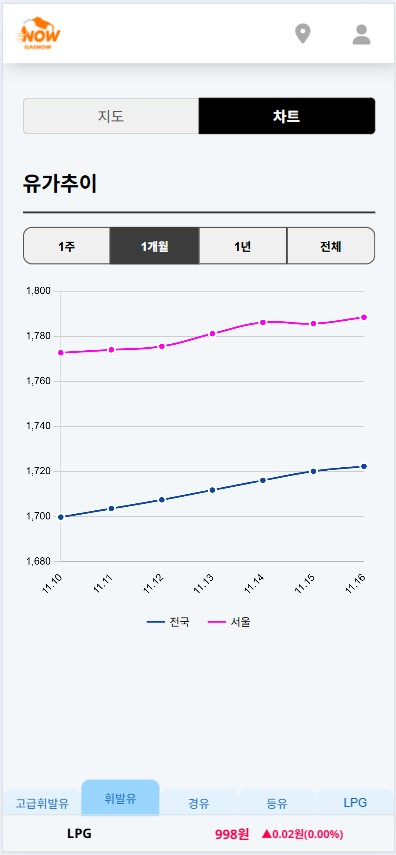
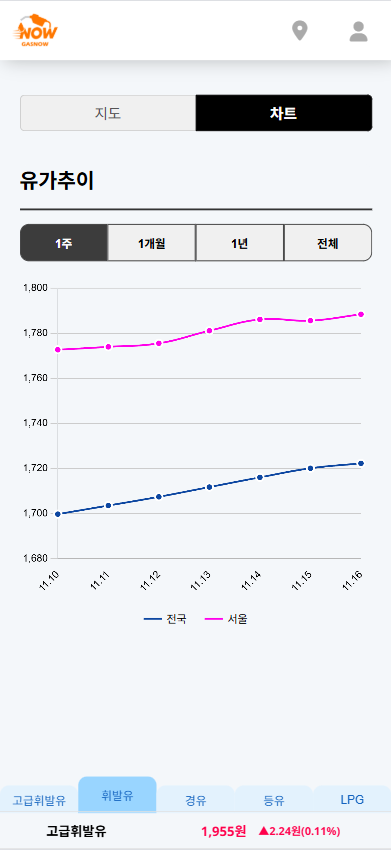
save

diff --git a/src/main/resources/static/css/index.css b/src/main/resources/static/css/index.css
@@ -49,7 +49,9 @@ body {
     overflow: hidden;
 }
 .chart-container {
-    width: 30%;
+    width: 40%;
+    padding-left: 5%;
+    padding-right: 5%;
     height: 100%;
     margin-right: 7%;
     background: #f4f7fa;
@@ -72,25 +74,27 @@ body {
     gap: 10px;
     flex-direction: row-reverse;
 }
-.login-btn {
-    border: 2px solid black;
-    border-radius: 30px;
-    background-color: #f0f0f0;
-    color: black;
-    font-weight: bold;
-    padding: 5px 30px;
-    max-height: 100%;
-    cursor: pointer;
-}
+.login-btn,
 .register-btn {
-    border-radius: 30px;
-    border: 1px solid black;
-    background-color: black;
-    color: white;
+    width: 100px;
+    height: 40px;
+    border-radius: 10px;
+    color: black;
+    font-size: 0.9rem;
     font-weight: bold;
-    padding: 5px 20px;
-    max-height: 100%;
     cursor: pointer;
+    border: 1px solid #ccc;
+    background-color: #f0f0f0;
+    box-shadow:
+            inset 5px 5px 10px #ffffff, /* 1. 밝은 그림자 (좌측 상단) */
+            0 5px 10px #bebebe;         /* 2. 어두운 그림자 (우측 하단) */
+}
+.login-btn:active,
+.register-btn:active {
+    color: #555;
+    box-shadow:
+            inset 0 -5px 10px #ffffff,      /* 안쪽 밝은 그림자 */
+            inset 5px 5px 10px #afafaf;     /* 안쪽 어두운 그림자 */
 }
 
 .welcome-btn {
@@ -182,22 +186,30 @@ body {
     display: flex;
     flex-direction: column; /* 아이템을 세로로 정렬 */
     justify-content: center; /* 그룹을 박스 세로 중앙에 배치 */
-
-    /* ↓↓↓ 추가: 항목 사이의 간격을 vh로 지정 (기존 margin 대신) */
     gap: 0.8vh;
-
-    /* ↓↓↓ 추가: 패딩을 주면 더 안정적입니다 (선택 사항) */
     padding: 1vh 0;
     box-sizing: border-box; /* 패딩이 높이에 포함되도록 함 */
     border-radius: 10px;
-    background-color: #ffddaa;
     cursor: pointer;
+    border: 1px solid #ccc;
+    background-color: #ffddaa;
+    color: #555;
+    box-shadow:
+            inset 4px 5px 10px rgba(255, 255, 255, 0.7),   /* 1. 밝은 그림자 (좌측 상단) */
+            4px 5px 10px #bebebe;         /* 2. 어두운 그림자 (우측 하단) */
 }
-.diff-box:hover {
-    background-color: #ffaa64;
-}
+.diff-box:active,
 .diff-box.on {
     background-color: #ffaa64;
+    border: 1px solid #ccc;
+    font-weight: bold;
+    box-shadow:
+            inset -3px -4px 10px #fae6c8,      /* 안쪽 밝은 그림자 */
+            inset 3px 4px 10px #9a663c;        /* 안쪽 어두운 그림자 */
+}
+.diff-box:active .diff-oil,
+.diff-box.on .diff-oil {
+    color: #555;
 }
 .diff-oil {
     color: black;
@@ -255,14 +267,15 @@ h1 {
     flex: 1;
     padding: 10px;
     text-align: center;
-    background: white;
-    border: none;
     cursor: pointer;
     font-size: 0.8rem;
     font-weight: bold;
-    color: black;
+    border: 1px solid #ccc;
     background-color: #f0f0f0;
-    border: 1px solid #3c3c3c;
+    color: #000000;
+    box-shadow:
+            inset 5px 5px 10px #ffffff, /* 1. 밝은 그림자 (좌측 상단) */
+            0 5px 10px #bebebe;         /* 2. 어두운 그림자 (우측 하단) */
 }
 
 .period-btn:first-child {
@@ -272,11 +285,23 @@ h1 {
 .period-btn:last-child {
     border-radius: 0 10px 10px 0;
 }
-
-.period-btn.on {
-    background: #3c3c3c;
-    color: white;
+.period-btn:active {
+    background-color: #f0f0f0;
+    color: #555;
+    border: 1px solid #ccc;
     font-weight: bold;
+    box-shadow:
+            inset 0 -5px 10px #ffffff,      /* 안쪽 밝은 그림자 */
+            inset 5px 5px 10px #afafaf;     /* 안쪽 어두운 그림자 */
+}
+.period-btn.on {
+    background-color: #f0f0f0;
+    color: #555;
+    border: 1px solid #ccc;
+    font-weight: bold;
+    box-shadow:
+            inset 0 -5px 10px #ffffff, /* 안쪽 밝은 그림자 */
+            inset 5px 5px 10px #afafaf;  /* 안쪽 어두운 그림자 */
 }
 
 .legend {
@@ -303,7 +328,7 @@ h1 {
 }
 
 .local {
-    background-color: #ff00ea;
+    background-color: #ff0055;
 }
 
 
@@ -398,15 +423,31 @@ h1 {
         background-color: #f0f0f0;
         color: #555;
         font-size: 1rem;
+        font-weight: bold;
         text-align: center;
         align-content: center;
         cursor: pointer;
+        box-shadow:
+                inset 5px 5px 10px #ffffff, /* 1. 밝은 그림자 (좌측 상단) */
+                0 5px 10px #bebebe;         /* 2. 어두운 그림자 (우측 하단) */
+    }
+    .toggle-btn:active {
+        background-color: #f0f0f0;
+        color: #555;
+        border: 1px solid #ccc;
+        font-weight: normal;
+        box-shadow:
+                inset 0 -5px 10px #ffffff,      /* 안쪽 밝은 그림자 */
+                inset 5px 5px 10px #afafaf;     /* 안쪽 어두운 그림자 */
     }
     .toggle-btn.on {
-        background-color: black;
-        color: white;
-        border-color: black;
-        font-weight: bold;
+        background-color: #f0f0f0;
+        color: #555;
+        border: 1px solid #ccc;
+        font-weight: normal;
+        box-shadow:
+                inset 0 -5px 10px #ffffff,      /* 안쪽 밝은 그림자 */
+                inset 5px 5px 10px #afafaf;     /* 안쪽 어두운 그림자 */
     }
     .toggle-btn:first-child {
         border-radius: 5px 0 0 5px;
@@ -441,7 +482,7 @@ h1 {
         margin-left: 0;
     }
     .label {
-        font-size: 1.9rem;
+        font-size: 1.5rem;
         font-weight: bold;
     }
 
@@ -449,9 +490,9 @@ h1 {
     차트 스타일
     ================================================================================================*/
     .chart-container {
-        width: 90%;
-        margin-left: auto;
-        margin-right: auto;
+        width: 90vw;
+        padding-left: 5%;
+        padding-right: 5%;
         display: none;
     }
     .chart-container.on {
@@ -506,6 +547,8 @@ h1 {
         align-items: center;             /* 수직 가운데 */
         justify-content: center;         /* 수평 가운데 */
         font-size: 0.8rem;
+        box-shadow: 0 -3px 5px rgba(0, 0, 0, 0.2);
+        background: linear-gradient(to bottom, #f8f8f8, #eaeaea);
     }
     .oil-btn:hover {
         background-color: #99d5ff;
@@ -525,6 +568,12 @@ h1 {
         align-items: center;
         overflow: hidden;
         gap: 0;
+        background: linear-gradient(
+                to bottom,
+                #f8f8f8 0%,
+                #f8f8f8 5%,
+                #eaeaea 50%
+        );
         border-top: 1px solid #e0e0e0;      /* 상단 구분선 */
         border-bottom: 1px solid #e0e0e0;   /* 하단 구분선 */
         width: 100%;                        /* 화면 전체 너비 */

diff --git a/src/main/resources/static/js/index.js b/src/main/resources/static/js/index.js
@@ -664,13 +664,13 @@ function renderChart(data, areaCode, periodKey) {
                     {
                         label: koreanArea,
                         data: chartData[koreanArea] || [],
-                        borderColor: '#ff00ea',
-                        backgroundColor: '#ff00ea',
+                        borderColor: '#ff0055',
+                        backgroundColor: '#ff0055',
                         tension: 0.4,
                         borderWidth: 2,
                         pointRadius: 4,
                         pointHoverRadius: 6,
-                        pointBackgroundColor: '#ff00ea',
+                        pointBackgroundColor: '#ff0055',
                         pointBorderColor: '#fff',
                         pointBorderWidth: 2,
                         fill: false
